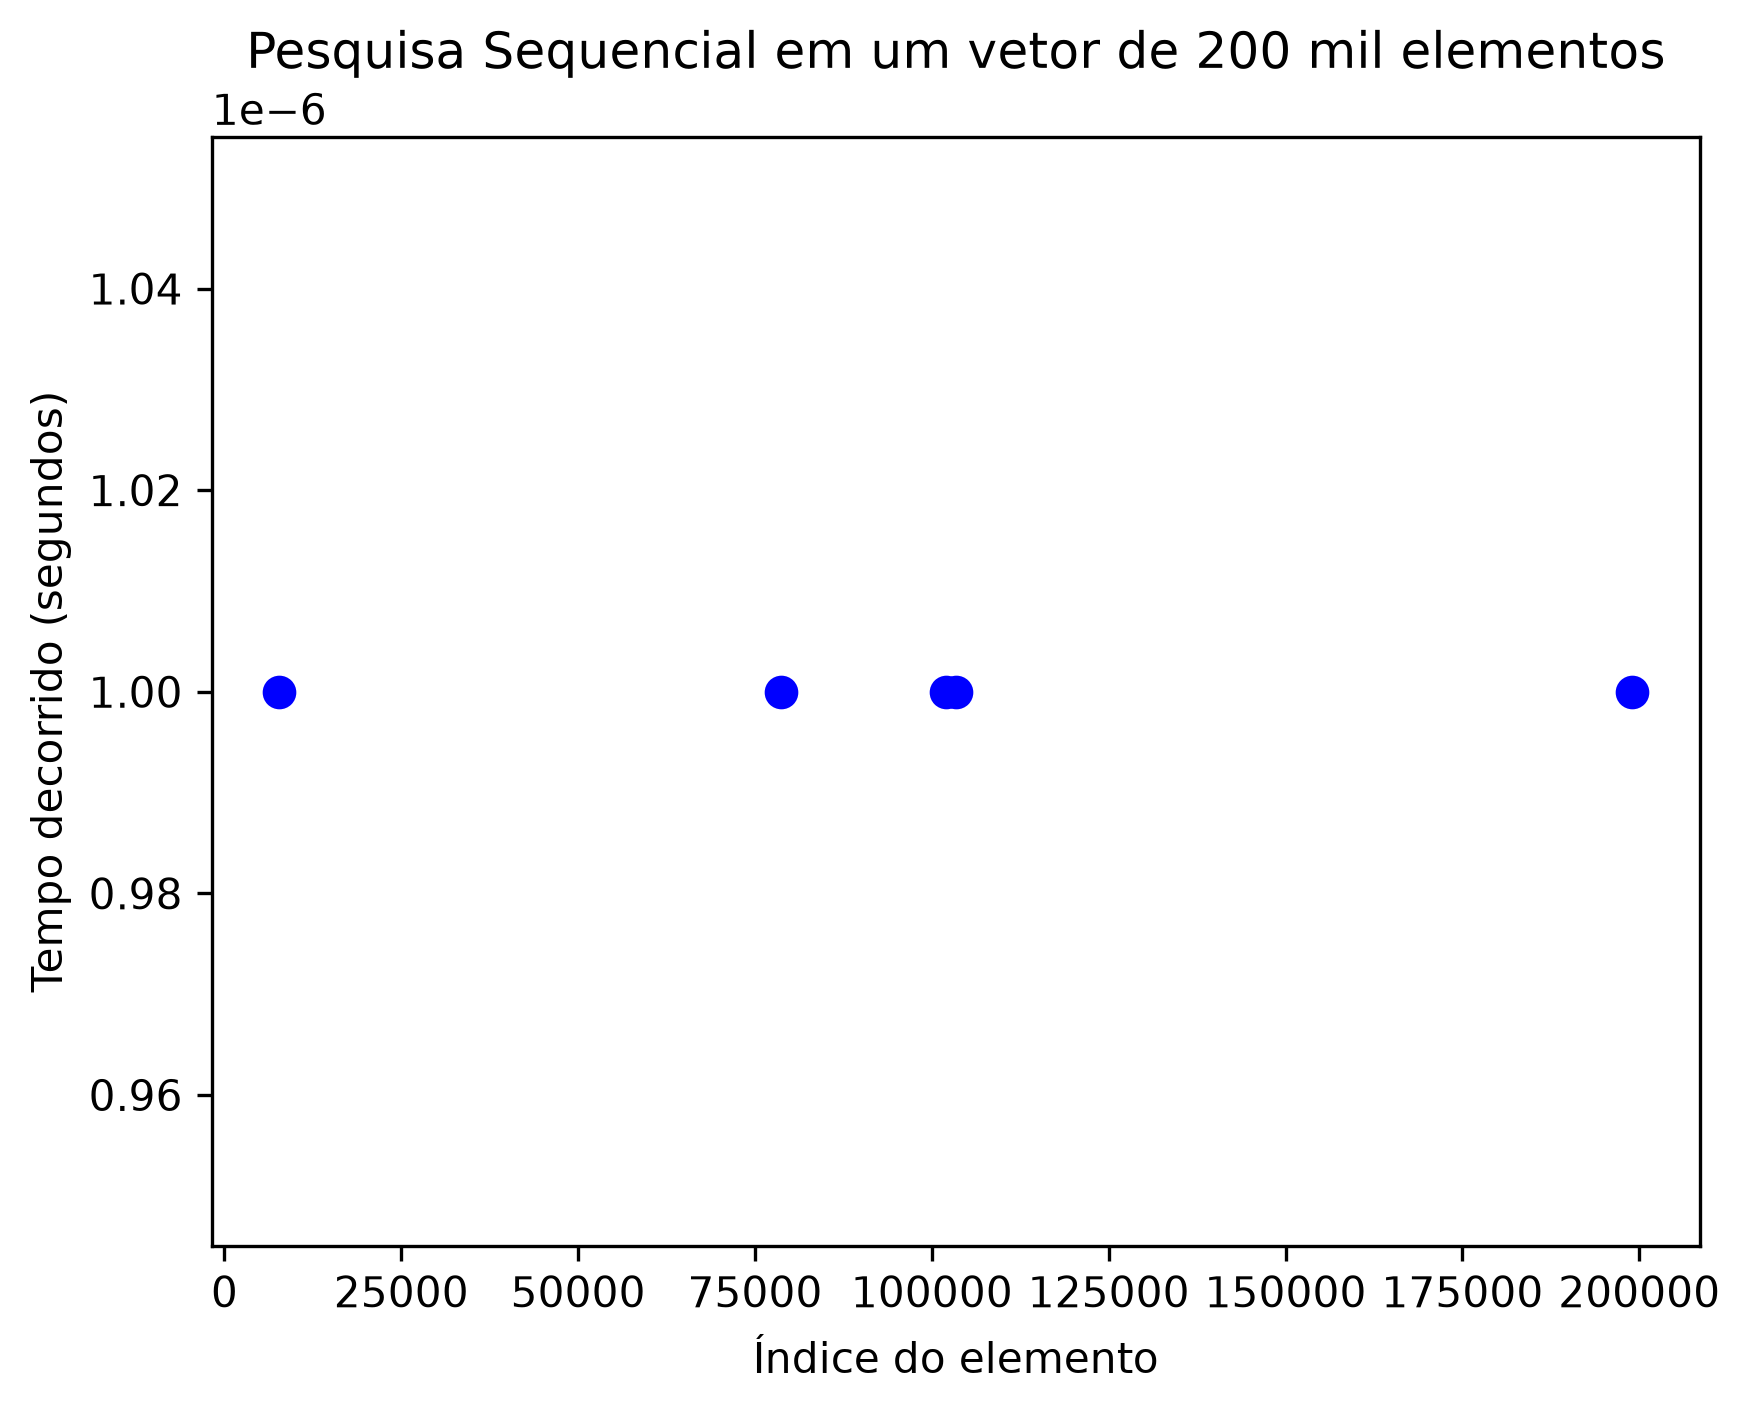
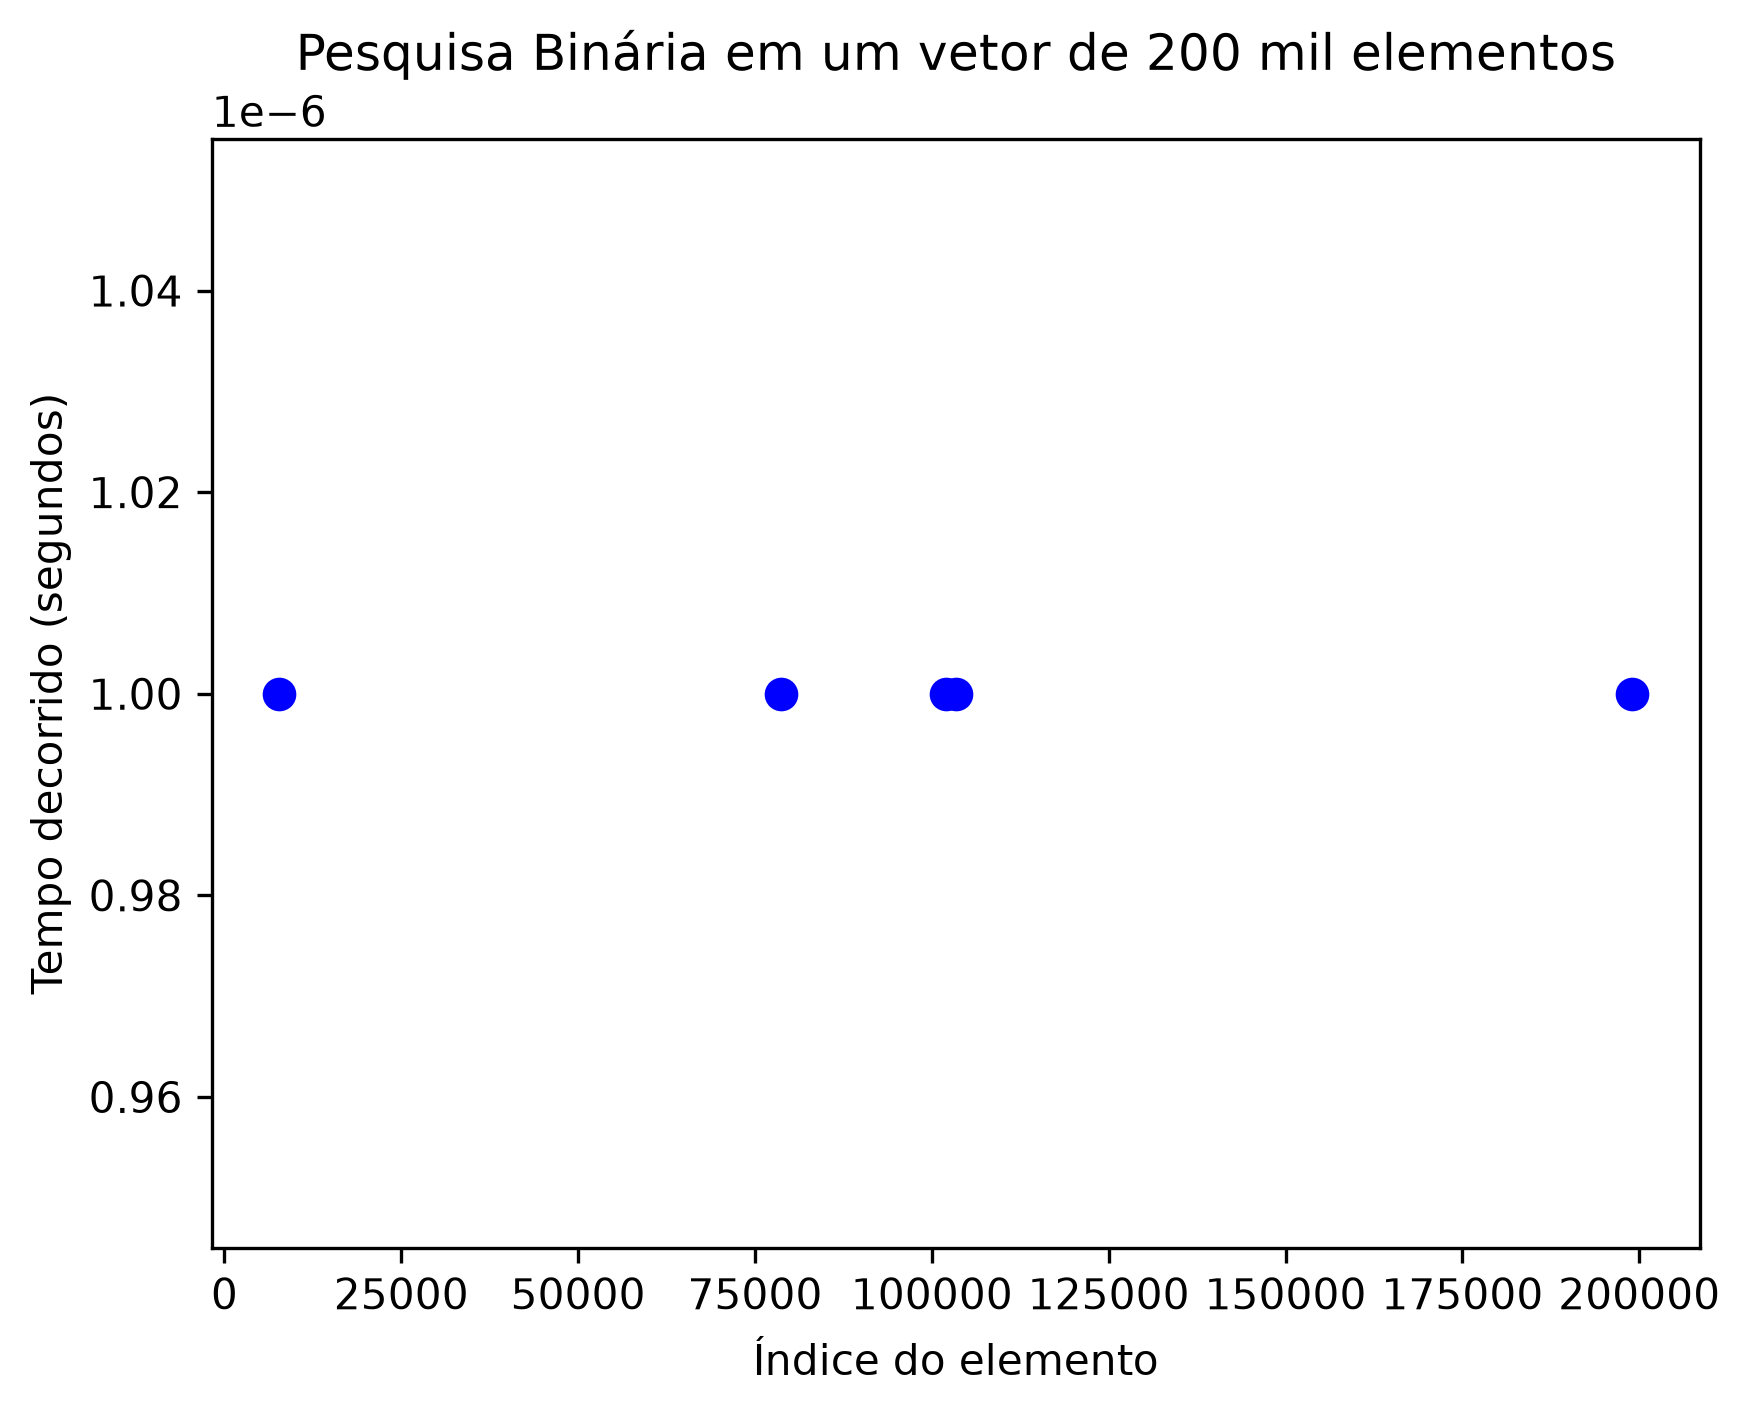
Update

diff --git a/src/graficos/pesquisa_binaria/200.py b/src/graficos/pesquisa_binaria/200.py
@@ -7,7 +7,7 @@ y = [0.000001, 0.000001, 0.000001, 0.000001, 0.000001]
 fig, ax = plt.subplots()
 ax.scatter(x, y, color='blue', s=50)
 
-ax.set_title("Pesquisa Sequencial em um vetor de 200 mil elementos")
+ax.set_title("Pesquisa Binária em um vetor de 200 mil elementos")
 ax.set_xlabel("Índice do elemento")
 ax.set_ylabel("Tempo decorrido (segundos)")
 ax.xaxis.set_major_locator(ticker.MaxNLocator(integer=True))

diff --git a/src/graficos/pesquisa_binaria/300.py b/src/graficos/pesquisa_binaria/300.py
@@ -7,7 +7,7 @@ y = [0.000002, 0.000001, 0.000001, 0.000001, 0.000001]
 fig, ax = plt.subplots()
 ax.scatter(x, y, color='blue', s=50)
 
-ax.set_title("Pesquisa Sequencial em um vetor de 300 mil elementos")
+ax.set_title("Pesquisa Binária em um vetor de 300 mil elementos")
 ax.set_xlabel("Índice do elemento")
 ax.set_ylabel("Tempo decorrido (segundos)")
 ax.xaxis.set_major_locator(ticker.MaxNLocator(integer=True))
